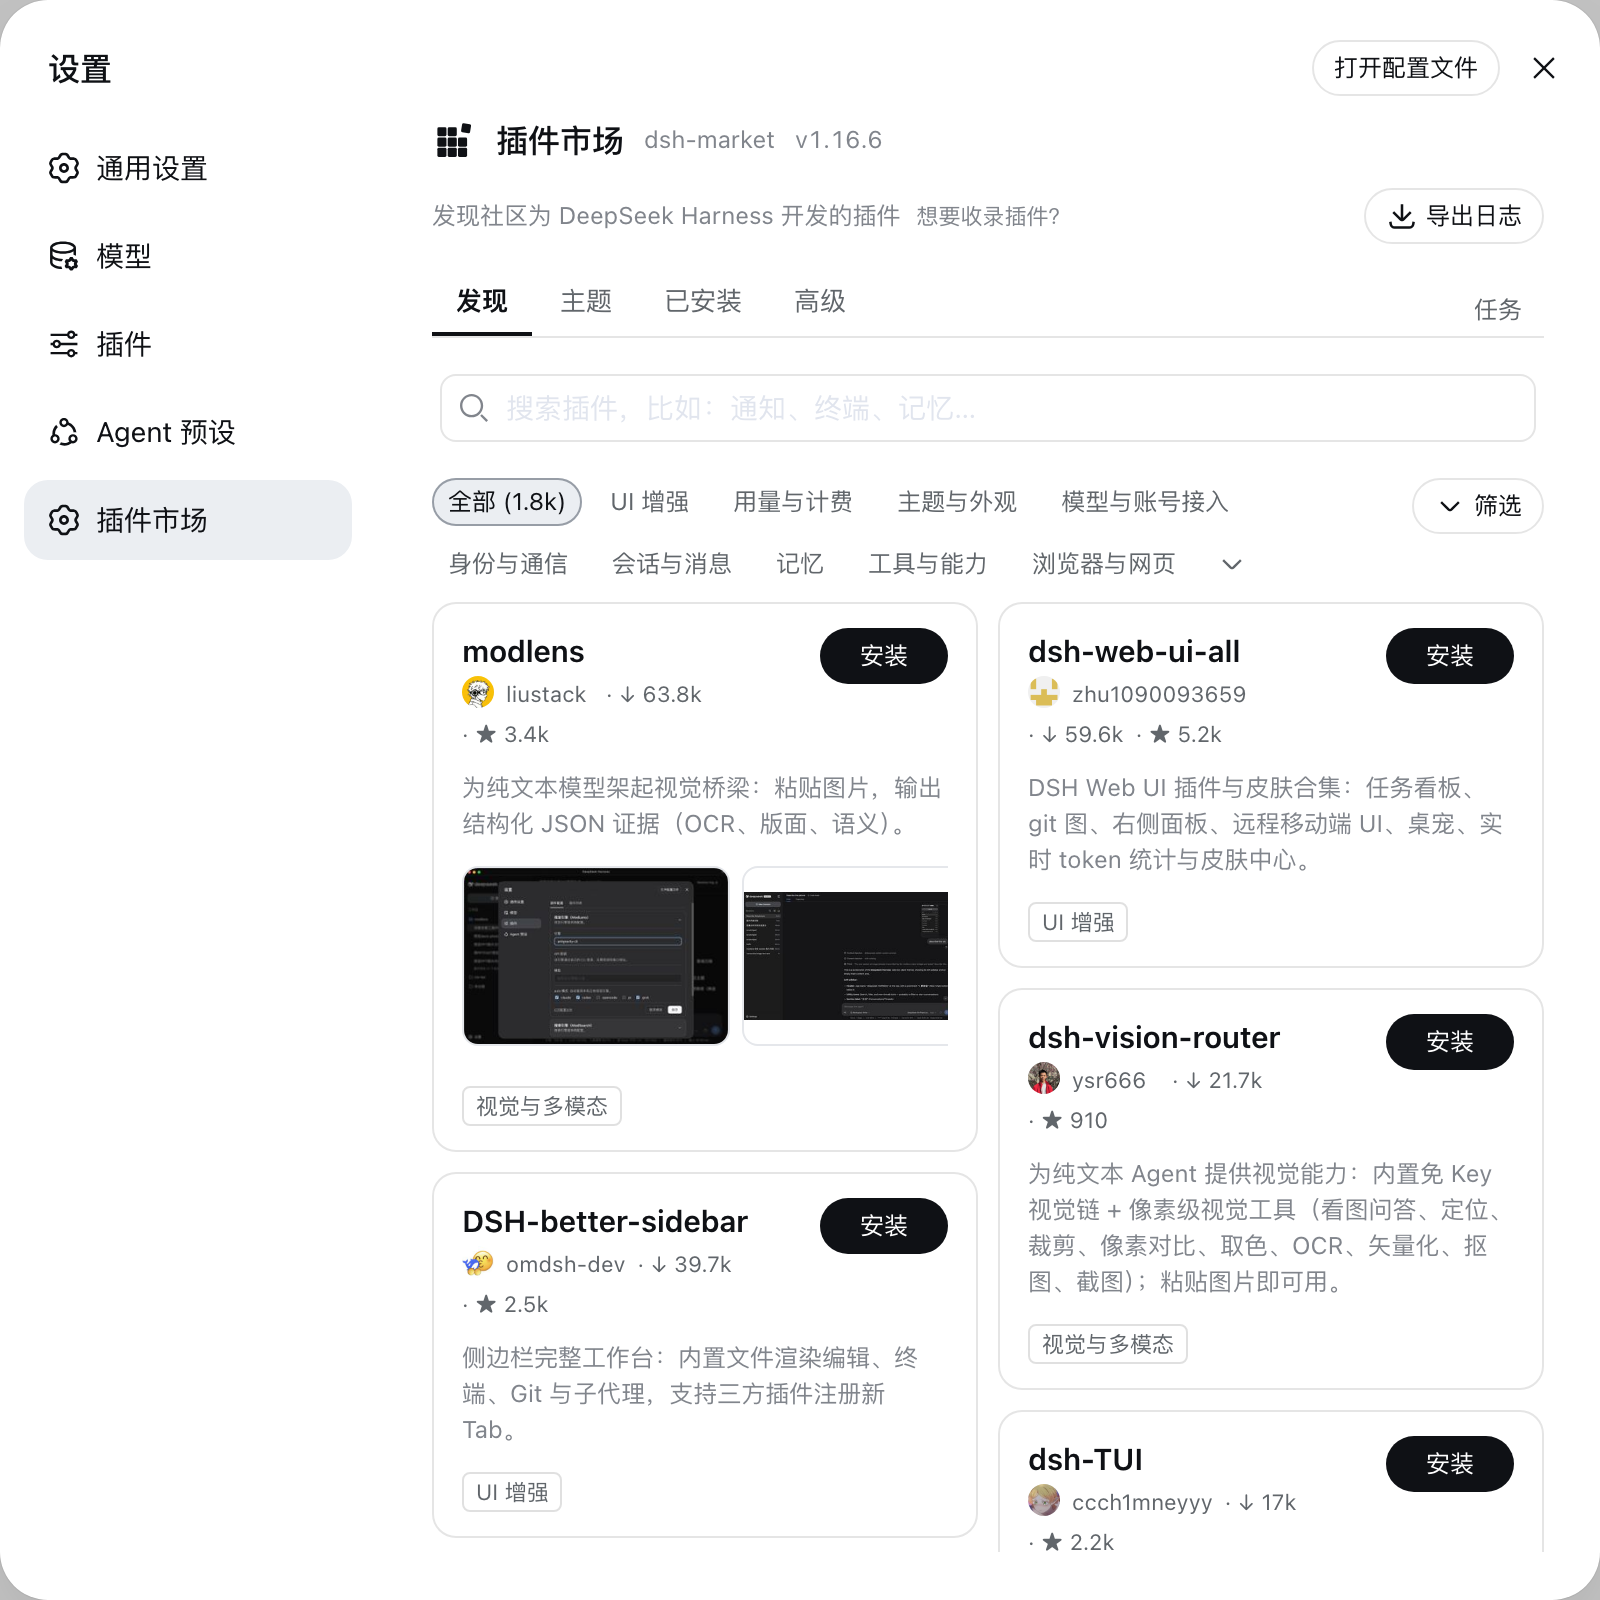
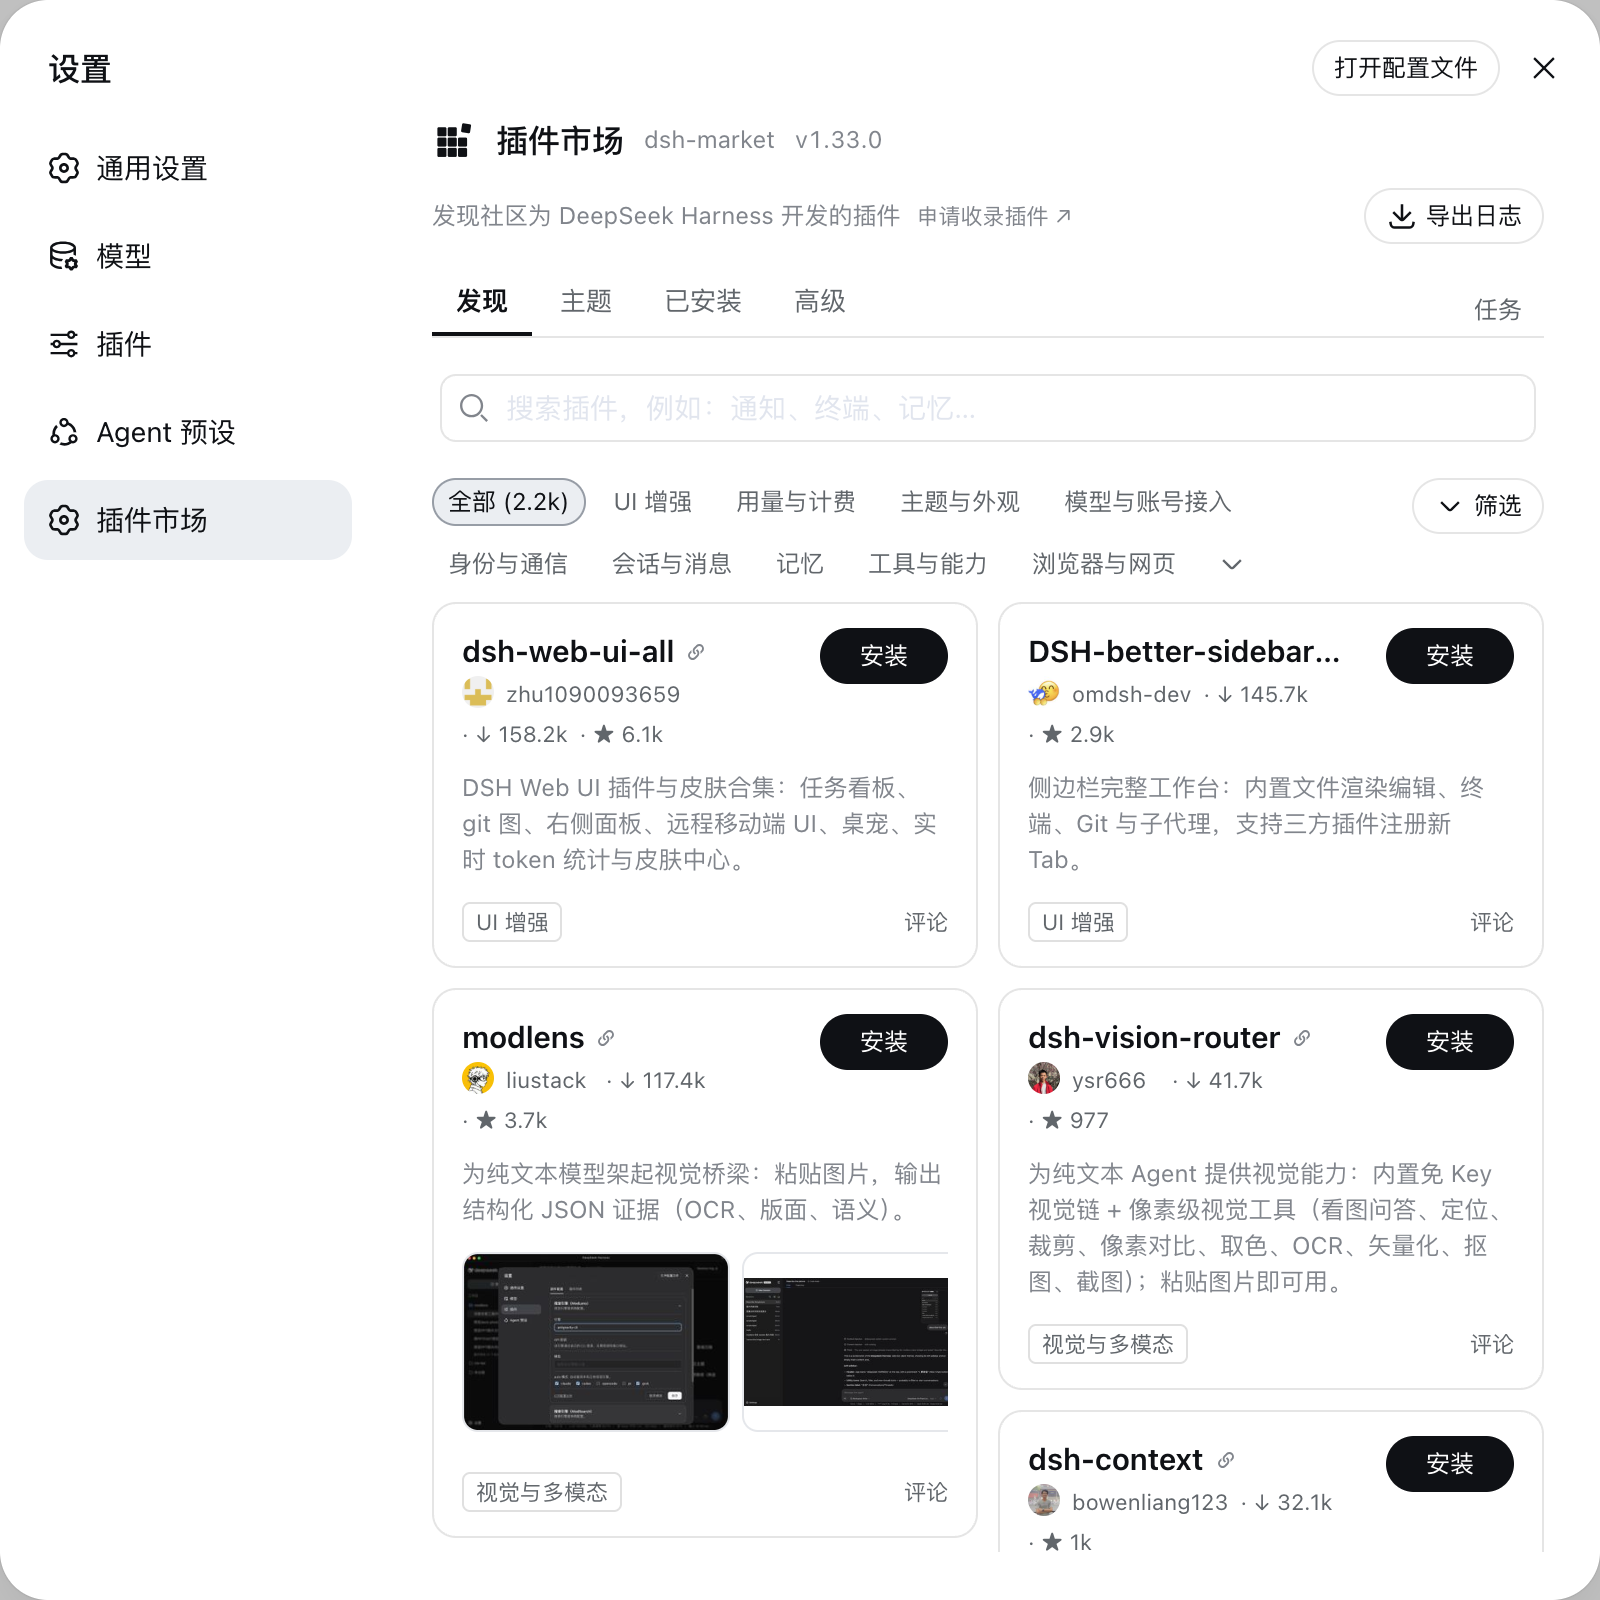
docs: comments in the READMEs, fresh screenshots, and a privacy page that is true again (#382)
The privacy page said the site loads "no other scripts". Since plugin pages
started carrying a comment thread that is no longer true — giscus.app is a
third party, loaded into the reader's browser — and a privacy statement that
is merely out of date is worse than one that never made the claim. Both
languages now have a Comments section that says what is loaded, when (only
once the section comes near the screen, which on most pages means after
scrolling past the README), what giscus.app and GitHub receive, that reading
needs no account, and that a posted comment is a public GitHub Discussion
under GitHub's terms which we do not store ourselves.

The READMEs gain the feature and lose a stale number: the catalog passed 2300
plugins a while ago and both files still said 1550+.

Screenshots re-shot at the same 1600×1600 framing as before, on 1.33.0, so
the comment entry is visible on the cards and the catalog count in the picture
matches the one in the text.

Noted while looking: assets/themes-{en,zh}.png and site/assets/settings-{en,zh}.png
are referenced from nothing. Left in place rather than swept up in a docs
commit, but they are dead weight.

diff --git a/site/privacy.zh.html b/site/privacy.zh.html
@@ -73,7 +73,10 @@ footer a:hover{color:var(--accent)}
 <p>我们使用 <strong>Cloudflare Web Analytics</strong>。它不使用 cookie，也不做指纹识别或跨站跟踪，记录的是页面访问量和粗粒度的技术信息——来源页、国家/地区、浏览器与设备类型——由 Cloudflare 汇总。我们看到的是数字，不是个人。详见 <a href="https://www.cloudflare.com/web-analytics/">Cloudflare Web Analytics</a>。</p>
 
 <h3>页面会加载什么</h3>
-<p>一个到 <code>awesome-dsh-plugin.com</code> 的请求，用于显示目录里当前的插件数量，其中不包含关于你的任何信息。没有广告网络，没有社交插件，没有第三方字体，也没有其它脚本。</p>
+<p>一个到 <code>awesome-dsh-plugin.com</code> 的请求，用于显示目录里当前的插件数量，其中不包含关于你的任何信息。没有广告网络，没有第三方字体，也没有任何跟踪脚本。</p>
+
+<h3>评论</h3>
+<p>每个插件页面都带有评论区。评论存放在 <strong>GitHub Discussions</strong>，由 <a href="https://giscus.app">giscus</a> 以内嵌框架的形式呈现。页面打开时并不会立即加载这个框架——只有当评论区接近屏幕时才会请求它（多数页面上，也就是你向下滚过 README 之后），也只有在那一刻，<code>giscus.app</code> 与 GitHub 才会收到你的 IP 地址（任何网页服务器为了响应请求都必须知道它）。只是阅读的话不需要账号。发表评论或点表情时，giscus 会引导你登录 GitHub；你写下的内容是 <a href="https://github.com/awesome-dsh-plugin/awesome-dsh-plugin/discussions">awesome-dsh-plugin</a> 仓库里一条公开的 GitHub Discussion，适用 GitHub 的条款，我们自己不保存其中任何内容。详见 <a href="https://github.com/giscus/giscus/blob/main/PRIVACY-POLICY.md">giscus 隐私政策</a>。</p>
 
 <h3>托管</h3>
 <p>本站由 <strong>GitHub Pages</strong> 提供服务。和任何网页服务器一样，GitHub 会为了响应请求而收到你的 IP 地址。详见 <a href="https://docs.github.com/site-policy/privacy-policies/github-privacy-statement">GitHub 隐私声明</a>。</p>

diff --git a/site/privacy.en.html b/site/privacy.en.html
@@ -73,7 +73,10 @@ footer a:hover{color:var(--accent)}
 <p>We use <strong>Cloudflare Web Analytics</strong>. It is cookie-less and does not fingerprint or track you across sites. It records page views and coarse technical facts — referrer, country, browser and device class — which Cloudflare aggregates. We see counts, never individuals. See <a href="https://www.cloudflare.com/web-analytics/">Cloudflare Web Analytics</a>.</p>
 
 <h3>What the page loads</h3>
-<p>One request to <code>awesome-dsh-plugin.com</code>, to display the current number of plugins in the catalog. Nothing about you is included in it. There are no ad networks, no social widgets, no third-party fonts, and no other scripts.</p>
+<p>One request to <code>awesome-dsh-plugin.com</code>, to display the current number of plugins in the catalog. Nothing about you is included in it. There are no ad networks, no third-party fonts, and no tracking scripts.</p>
+
+<h3>Comments</h3>
+<p>Each plugin page carries a comment thread, which lives in <strong>GitHub Discussions</strong> and is rendered by <a href="https://giscus.app">giscus</a> in an embedded frame. That frame is not loaded up front: it is requested only once the comment section comes close to the screen — on most pages, after you scroll past the README — and only then do <code>giscus.app</code> and GitHub receive your IP address, as any web server must to answer a request. Reading needs no account. Posting a comment or a reaction signs you in to GitHub through giscus, and what you write is a public GitHub Discussion in the <a href="https://github.com/awesome-dsh-plugin/awesome-dsh-plugin/discussions">awesome-dsh-plugin</a> repository, governed by GitHub's terms — we store none of it ourselves. See the <a href="https://github.com/giscus/giscus/blob/main/PRIVACY-POLICY.md">giscus privacy policy</a>.</p>
 
 <h3>Hosting</h3>
 <p>The site is served by <strong>GitHub Pages</strong>. Like any web server, GitHub receives your IP address in order to answer the request. See the <a href="https://docs.github.com/site-policy/privacy-policies/github-privacy-statement">GitHub Privacy Statement</a>.</p>

diff --git a/README.md b/README.md
@@ -31,8 +31,9 @@ its own dsh: it may be older than the one `npm` would give you (#139).
 
 ## What you get
 
-- **Browse & search** the full community catalog (1550+ plugins, growing daily) — category filters, star counts, top/new sorting, bilingual descriptions that follow your UI language
+- **Browse & search** the full community catalog (2300+ plugins, growing daily) — category filters, star counts, top/new sorting, bilingual descriptions that follow your UI language
 - **Screenshots** — AppStore-style screenshots, auto-carousel when there's more than one, click to preview full-size: author-curated shots show right on the card (zero extra requests); plugins without curated shots fall back to automatic README extraction once you open the install dialog. Images load from GitHub hosting only
+- **Comments** — every card opens the plugin's discussion thread in place. It is the same thread its pages on [dshmarket.com](https://dshmarket.com) and the [catalog](https://awesome-dsh-plugin.com) show, so a plugin has one conversation rather than three. Backed by GitHub Discussions through giscus: it loads when you open it, needs a GitHub account only to post, and the note above it says plainly that opening it contacts giscus.app and GitHub
 - **Themes** — a dedicated tab for community themes and skins: install → active immediately, switch with one click (themes are mutually exclusive, your choice survives restarts), uninstall to revert
 - **One-click install** — confirm the source, watch live progress; most plugins go live after a page refresh, no restart
 - **Backup & restore** — export your profile's plugin list and configuration as readable JSON, import it on another machine, store it on WebDAV with daily auto-backup, or sync through a private GitHub Gist; restores **merge** (plugins installed after the backup are kept), validate before writing, and roll back on failure

diff --git a/README.zh.md b/README.zh.md
@@ -29,8 +29,9 @@ dsh plugin --profile web add dshmarket
 
 ## 你会得到
 
-- **逛与搜**——完整社区目录（1550+ 插件，每天在涨），分类筛选、star 数、最热/最新排序，中英描述跟随界面语言
+- **逛与搜**——完整社区目录（2300+ 插件，每天在涨），分类筛选、star 数、最热/最新排序，中英描述跟随界面语言
 - **截图展示**——App Store 式截图，多图自动轮播，点开还能看大图；作者在 registry 里策展的截图列表卡片就直接显示（零额外请求），没有策展的插件则在打开安装弹窗时自动从 README 抽取；图片仅从 GitHub 图床加载
+- **评论**——每张卡片都能就地打开该插件的讨论。它和插件在 [dshmarket.com](https://dshmarket.com) 与[目录站](https://awesome-dsh-plugin.com)上的页面共用同一条讨论，一个插件只有一处对话，而不是三处。底层是 GitHub Discussions（经由 giscus）：打开即加载，只有发表评论才需要 GitHub 账号；说明里也直说打开会连接 giscus.app 与 GitHub
 - **主题**——独立主题页：装完立即生效，点一下切换（主题互斥、选择跨重启保留），卸载即恢复
 - **一键安装**——确认来源，实时进度；多数插件刷新页面即可用，无需重启
 - **备份与恢复**——把 profile 的插件清单与配置导出为可读 JSON，换机导入，存到 WebDAV 并每日自动备份，或通过私有 GitHub Gist 跨机器同步；恢复采用**合并**方式（备份之后新装的插件会保留），写入前校验、失败自动回滚
